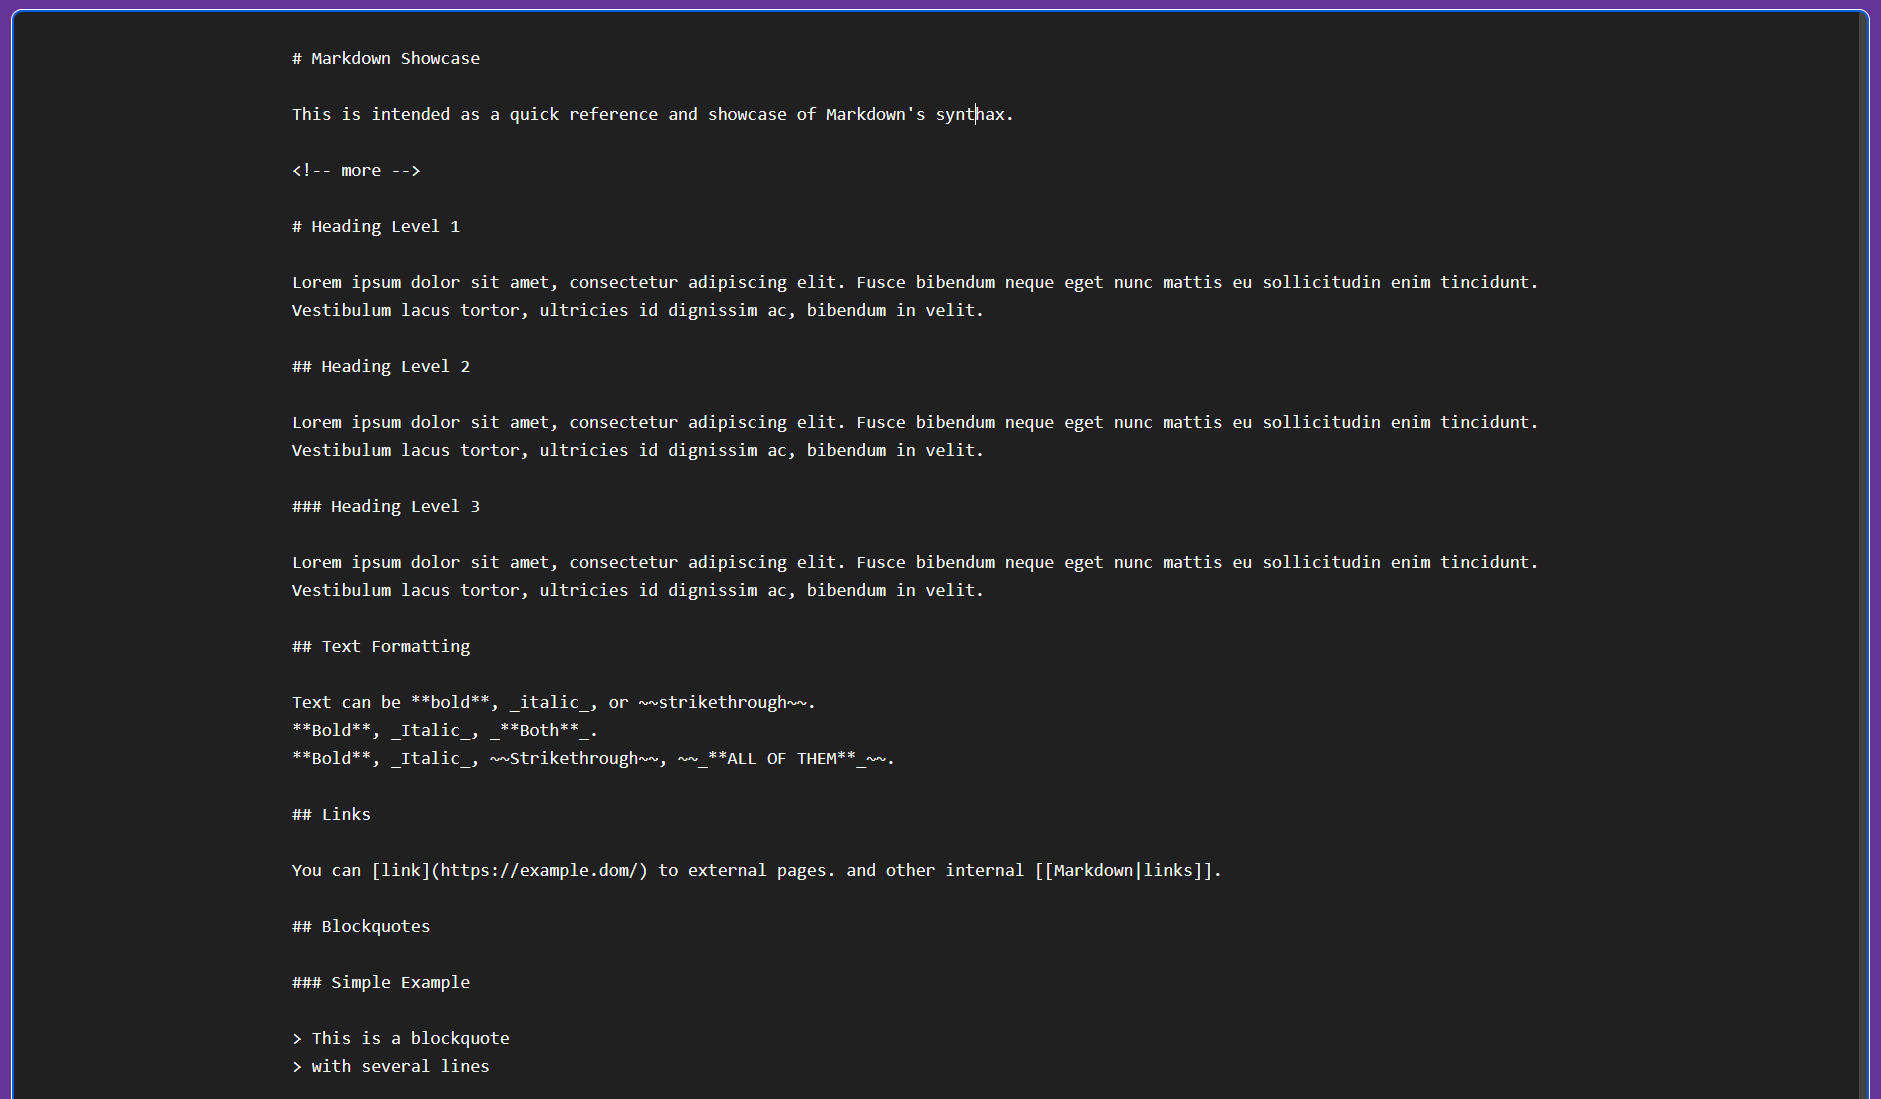
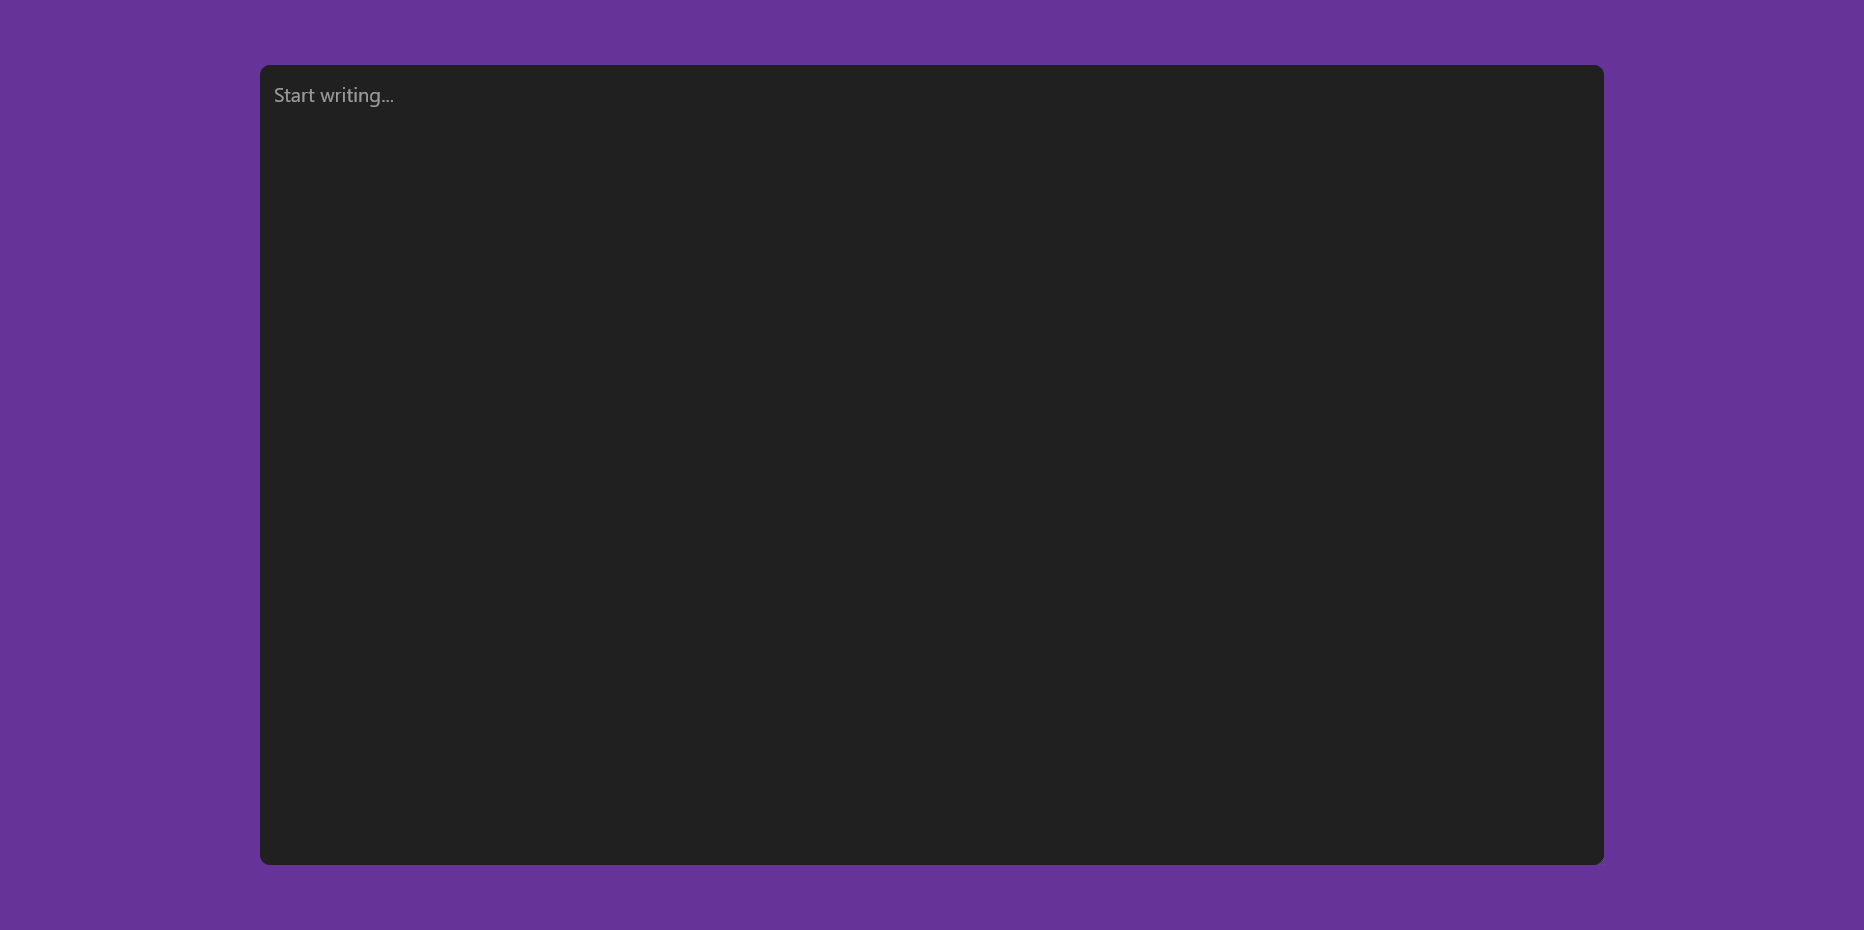
add styles

diff --git a/newtab.html b/newtab.html
@@ -7,37 +7,48 @@
   <meta http-equiv="X-UA-Compatible" content="ie=edge" />
   <title>New Tab</title>
   <link rel="icon" type="image/png" sizes="48x48" href="icon48.png">
+  <link rel="stylesheet" href="https://cdn.jsdelivr.net/npm/bulma@0.9.4/css/bulma.min.css">
   <script type="text/javascript" src="./tabnotes.js"></script>
   <!-- <link rel="stylesheet" href="https://fonts.googleapis.com/css?family=Bitter:400,700&display=swap" /> -->
 </head>
 
 <style>
-  body {
-    margin: 0;
-    padding: 1rem;
+  html {
     background: rebeccapurple;
   }
 
-  #notes {
+  body {
+    padding: 0 1rem;
     box-sizing: border-box;
-    border: 0;
-    font-size: 18px;
+  }
+
+  .container {
+    height: 100vh;
+    display: flex;
+    align-items: center;
+  }
+
+  /* #notes {} */
+
+  .textarea {
+    border-radius: 10px;
     line-height: 1.75rem;
-    margin: 0;
-    min-height: 100vh;
-    height: auto;
-    padding: 2rem 15%;
-    resize: none;
-    width: 100%;
+    border: 0;
     background: #202020;
+    color: #fff;
+    height: 100%;
+  }
+
+  .textarea::placeholder {
     color: #ffffff;
-    border-radius: 8px;
   }
 </style>
 
 <body>
-  <main>
-    <textarea id="notes" placeholder="Start writing."></textarea>
+  <main class="">
+    <div class="container">
+      <textarea class="textarea is-medium" id="notes" placeholder="Start writing..."></textarea>
+    </div>
   </main>
 </body>
 

diff --git a/README.md b/README.md
@@ -14,6 +14,10 @@ A Firefox extension for simple notetaking in Firefox's New Tab.
 
 ![screenshot](screenshot-1.png)
 
+## TODO
+
+- [ ] Integrate a new [options](https://github.com/semanticdata/firefox-chatgpt-in-sidebar/blob/main/options/options.js) menu, or toggle. Could be used to store bg-color, txt-color, etc. This in theory allows the user to customize the editor.
+
 ## Acknowledgments
 
 This extension is based on [Tab Notes](https://github.com/nsht/tab_notes) which hasn't received an update in 4 years.
